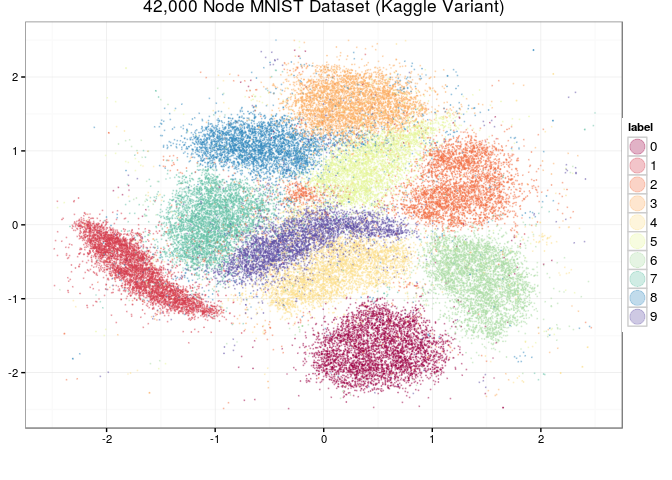
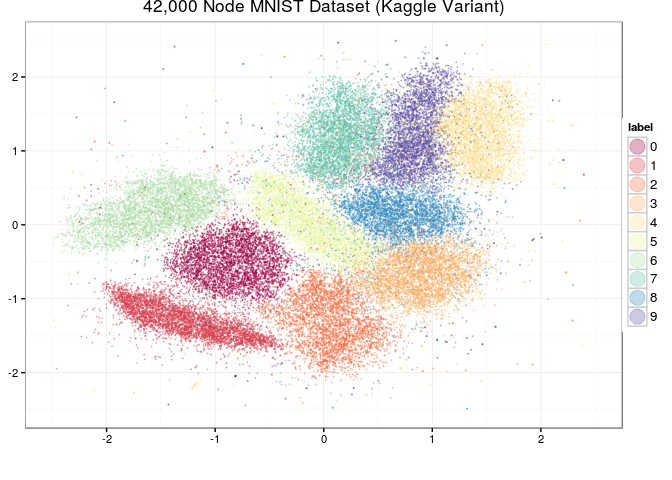
Reimplemented the tree search to be more memory efficient & cleaned-up some OpenMP code. Refactored calculation of w_ij to be efficiently parallel and use batch insertion constructor for the sparse matrix.

Changed region(s): [[0.0938, 0.0938, 0.8125, 0.8438], [0.2812, 0.7812, 0.3125, 0.8125]]

diff --git a/src/neighbors.cpp b/src/neighbors.cpp
@@ -12,8 +12,8 @@ using namespace Rcpp;
 using namespace std;
 
 /*
- * Functions for identifying candidate nearest neighbors using random projection trees and neighborhood exploration.
- */
+* Functions for identifying candidate nearest neighbors using random projection trees and neighborhood exploration.
+*/
 
 struct heapObject {
   double d;
@@ -38,7 +38,7 @@ inline double dist(arma::vec i, arma::vec j) {
 void searchTree(const int& threshold,
                 const arma::vec& indices,
                 const arma::mat& data,
-                std::vector<std::set<int> >& heap,
+                std::vector<std::vector<int>* >& heap,
                 const int& iterations,
                 Progress& progress) {
   const int I = indices.size();
@@ -46,19 +46,21 @@ void searchTree(const int& threshold,
   if (progress.check_abort()) return;
   if (I < 2) return;
   if (I == 2) {
-      #pragma omp critical
-      {
-      heap[indices[0]].insert(indices[1]);
-      heap[indices[1]].insert(indices[0]);
-      }
-      return;
+    #pragma omp critical
+    {
+      heap[indices[0]] -> push_back(indices[1]);
+      heap[indices[1]] -> push_back(indices[0]);
+    }
+    return;
   }
   if (I < threshold || iterations == 0) {
     #pragma omp critical
     {
-      for (int i = 0; i < I; i++)
+      for (int i = 0; i < I; i++) {
+        heap[indices[i]] -> reserve(I);
         for (int j = 0; j < I; j++)
-          if (i != j) heap[indices[i]].insert(indices[j]);
+          if (i != j) heap[indices[i]] -> push_back(indices[j]);
+      }
     }
     progress.increment(I);
     return;
@@ -102,31 +104,51 @@ arma::mat searchTrees(const int& threshold,
 
   Progress p((N * n_trees) + (N) + (N * maxIter), verbose);
 
-  std::vector<std::set<int> > treeNeighborhoods = std::vector<std::set<int> >(N);
+  std::vector<std::vector<int>* > treeNeighborhoods = std::vector<std::vector<int>* >(N);
+  for (int i = 0; i < N; i++) {
+    int seed[] = {i};
+    treeNeighborhoods[i] = new std::vector<int>(seed, seed + sizeof(seed) / sizeof(int));
+  }
 
   { // Artificial scope to destroy indices
     arma::vec indices = arma::regspace<arma::vec>(0, N - 1);
-   #pragma omp parallel for shared(indices,treeNeighborhoods)
-    for (int t = 0; t < n_trees; t++) if (! p.check_abort())
+
+    #pragma omp parallel for shared(indices,treeNeighborhoods)
+    for (int t = 0; t < n_trees; t++) if (! p.check_abort()) {
       searchTree(threshold,
                  indices,
                  data,
                  treeNeighborhoods,
                  max_recursion_degree, // maximum permitted level of recursion
                  p
-                 );
+      );
+
+      if (t > 0 && ! p.check_abort())
+      #pragma omp critical
+      {
+        for (int i = 0; i < N; i++) {
+          std::vector<int>* neighbors = treeNeighborhoods[i];
+          std::sort(neighbors -> begin(), neighbors -> end());
+          std::vector<int>::iterator theEnd = std::unique(neighbors -> begin(), neighbors -> end());
+          neighbors -> erase(theEnd, neighbors -> end());
+        }
+      }
+    }
   }
+
   if (p.check_abort()) return arma::mat(0);
 
+  // Initialize the knn matrix, and reduce the number of candidate neighbors per node
+  // to K.  Otherwise the first neighborhood exploration pass takes N * trees * (threshold + 1),
+  // instead of (N * K), which is prohibitive of large thresholds.
   arma::mat knns = arma::mat(threshold,N);
   knns.fill(-1);
-
   #pragma omp parallel for shared(knns)
   for (int i = 0; i < N; i++) if (p.increment()){
     const arma::vec x_i = data.col(i);
     std::priority_queue<heapObject> maxHeap = std::priority_queue<heapObject>();
-    std::set<int> stack = treeNeighborhoods[i];
-    for (std::set<int>::iterator it = stack.begin(); it != stack.end(); it++) {
+    std::vector<int>* stack = treeNeighborhoods[i];
+    for (std::vector<int>::iterator it = stack -> begin(); it != stack -> end(); it++) {
       const double d = dist(x_i, data.col(*it));
       maxHeap.push(heapObject(d, *it));
       if (maxHeap.size() > threshold) maxHeap.pop();
@@ -137,7 +159,6 @@ arma::mat searchTrees(const int& threshold,
       maxHeap.pop();
       j++;
     } while (j < threshold && ! maxHeap.empty());
-    stack.insert(i);
   }
   if (p.check_abort()) return arma::mat(0);
 
@@ -145,36 +166,48 @@ arma::mat searchTrees(const int& threshold,
     arma::mat old_knns = knns;
     knns = arma::mat(K,N);
     knns.fill(-1);
-   #pragma omp parallel for shared(knns, treeNeighborhoods)
+    #pragma omp parallel for shared(knns, treeNeighborhoods)
     for (int i = 0; i < N; i++) if (p.increment()) {
       double d;
 
-      const arma::vec x_i = data.col(i);
-      std::priority_queue<heapObject> heap;
-      std::set<int> pastVisitors = treeNeighborhoods[i];
-
       const arma::vec neighborhood = old_knns.col(i);
-      int cnt = sum(neighborhood == -1);
+      const arma::vec x_i = data.col(i);
+
+      std::priority_queue<heapObject> heap;
+      std::vector<int> pastVisitors = *(treeNeighborhoods[i]);
+      // Loop through immediate neighbors of i
       for (int jidx = 0; jidx < old_knns.n_rows; jidx++) {
         const int j = neighborhood[jidx];
         if (j == -1) break;
-        if (j != i) {
-          d = dist(x_i, data.col(j));
-          if (d != 0) {
-            heap.push(heapObject(d, j));
-            if (heap.size() > K) heap.pop();
-          }
+        if (j == i) continue; // This should never happen
+        d = dist(x_i, data.col(j));
+        if (d != 0) { // This should never happen
+          heap.push(heapObject(d, j));
+          if (heap.size() > K) heap.pop();
         }
+
+        pastVisitors.reserve(K);
+        // For each immediate neighbor j, loop through its neighbors
         const arma::vec locality = old_knns.col(j);
         for (int kidx = 0; kidx < old_knns.n_rows; kidx++) {
           const int k = locality[kidx];
           if (k == -1) break;
-          if (k != i && pastVisitors.insert(k).second) {
-            d = dist(x_i, data.col(k));
-            if (d != 0 && d < heap.top().d) {
-              heap.push(heapObject(d, k));
-              if (heap.size() > K) heap.pop();
-            }
+          if (k == i) continue;
+          // Check if this is a neighbor we've already seen.  O(log k)
+          std::pair<std::vector<int>::iterator,
+                    std::vector<int>::iterator > firstlast = std::equal_range(pastVisitors.begin(),
+                                                                              pastVisitors.end(),
+                                                                              k);
+          if (*(firstlast.first) == k) continue; // Found
+          #pragma omp critical
+          {
+            if (firstlast.second == pastVisitors.end()) pastVisitors.push_back(k);
+            else pastVisitors.insert(firstlast.second, k);
+          }
+          d = dist(x_i, data.col(k));
+          if (d != 0 && d < heap.top().d) {
+            heap.push(heapObject(d, k));
+            if (heap.size() > K) heap.pop();
           }
         }
       }
@@ -184,6 +217,7 @@ arma::mat searchTrees(const int& threshold,
         heap.pop();
         j++;
       }
+      std::vector<int>(pastVisitors).swap(pastVisitors);
     }
   }
   return knns;

diff --git a/src/pjicalculation.cpp b/src/pjicalculation.cpp
@@ -44,22 +44,35 @@ arma::sp_mat distMatrixTowij(
   arma::vec pjis = arma::vec(is.length());
   for (int idx=0; idx < N; idx++) rowSums[idx] = 0;
   // Compute pji, accumulate rowSums at the same time
+  #pragma omp parallel for shared(pjis, rowSums)
   for (int e=0; e < pjis.size(); e++) if (p.increment()){
     const int i = is[e];
     const double pji = exp(- pow(xs[e], 2)) / sigmas[i];
     pjis[e] = pji;
-    rowSums[i] = rowSums[i] + pji;
+    #pragma omp atomic
+    rowSums[i] += pji;
   }
   if (p.check_abort()) return arma::sp_mat(0);
   // Now convert p(j|i) to w_{ij} by symmetrizing.
-  // At this point, if both ij and ji are edges, tehre will be two entries in the data structures.
-  // Loop through the structure, and place each in the lower-triangle of the sparse matrix.
-  arma::sp_mat wij = arma::sp_mat(N, N);
-  for (int e=0; e < pjis.size(); e++) if (p.increment()) {
+  // Loop through the edges, and populate a location matrix and value vector for
+  // the arma::sp_mat batch insertion constructor.  Put all coordinates in the
+  // lower triangle.  The constructor will automatically add duplicates.
+  arma::vec values = arma::vec(pjis.size());
+  arma::umat locations = arma::umat(2, pjis.size());
+  #pragma omp parallel for shared(locations, values)
+  for (int e = 0; e < pjis.size(); e++) if (p.increment()) {
     int newi = is[e], newj = js[e];
     if (newi < newj) std::swap(newi, newj);
-    wij(newi, newj) +=  ((pjis[e] / rowSums[is[e]]) / (2 * N));
+    values[e] =  ((pjis[e] / rowSums[is[e]]) / (2 * N));
+    locations(1,e) = newi;
+    locations(0,e) = newj;
   }
+  arma::sp_mat wij = arma::sp_mat(
+    true, // add_values
+    locations,
+    values,
+    N, N // n_col and n_row
+    );
   return wij;
 };
 

diff --git a/NEWS.md b/NEWS.md
@@ -2,7 +2,7 @@
 
 * Added a `NEWS.md` file to track changes to the package.
 
-
+0.1.3 - Rewrote neighbor-search code to improve memory performance. Performance of wji calculation improved by an order of magnitude.
 0.1.2 - Added visualization function.
 0.1.1 - Many changes because of OpenMP compatibility issues. Moved from Rcpp to arma:: objects, etc. 
 0.1.0 - Initial development releases.  Focused on correctness, performance, testing against larger datasets.
